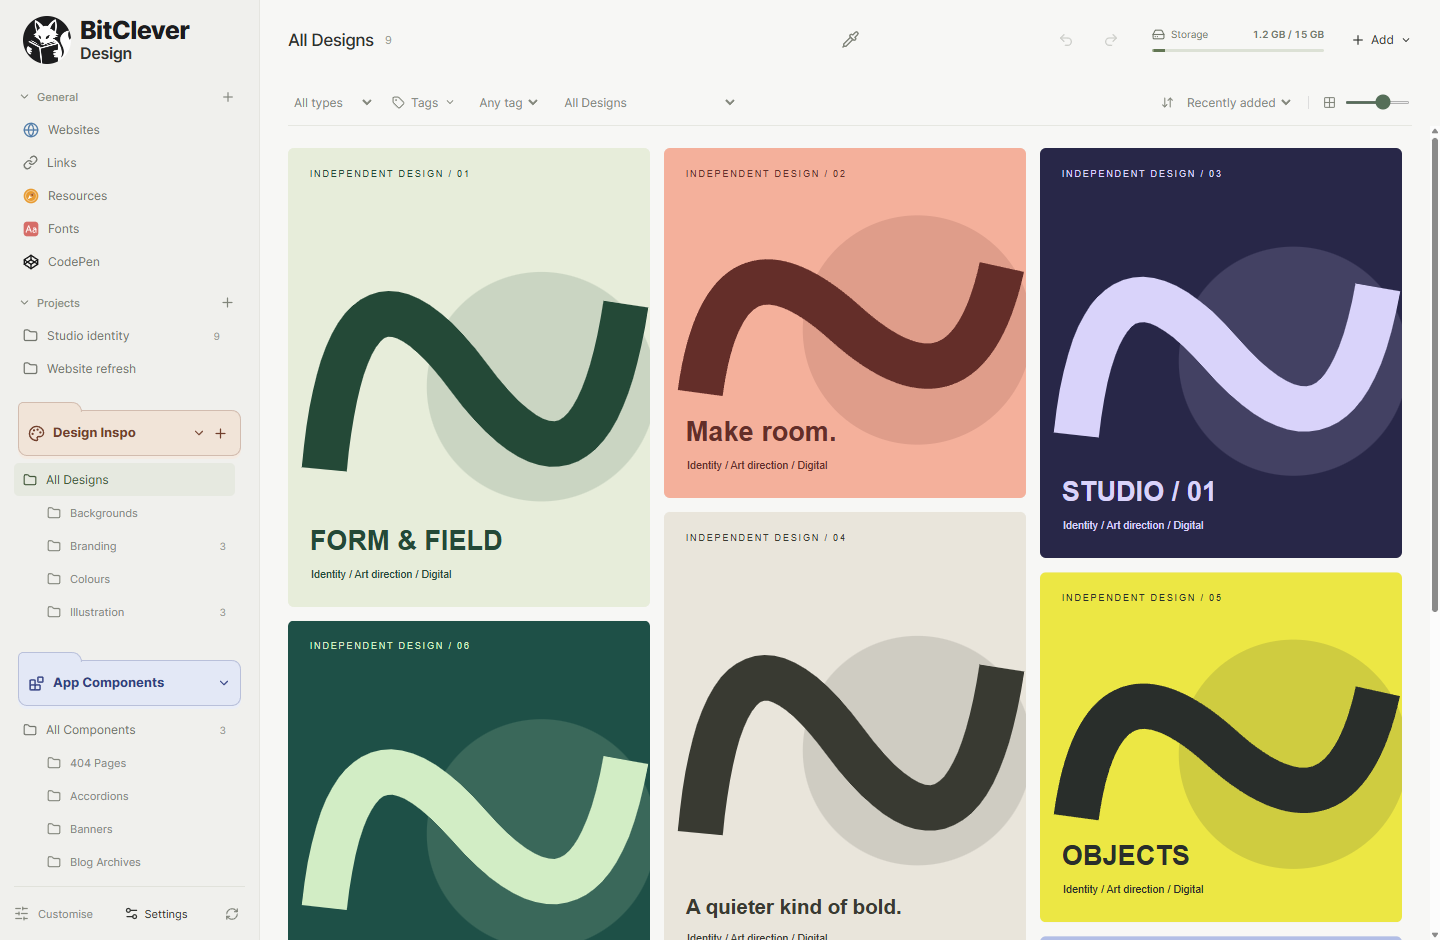
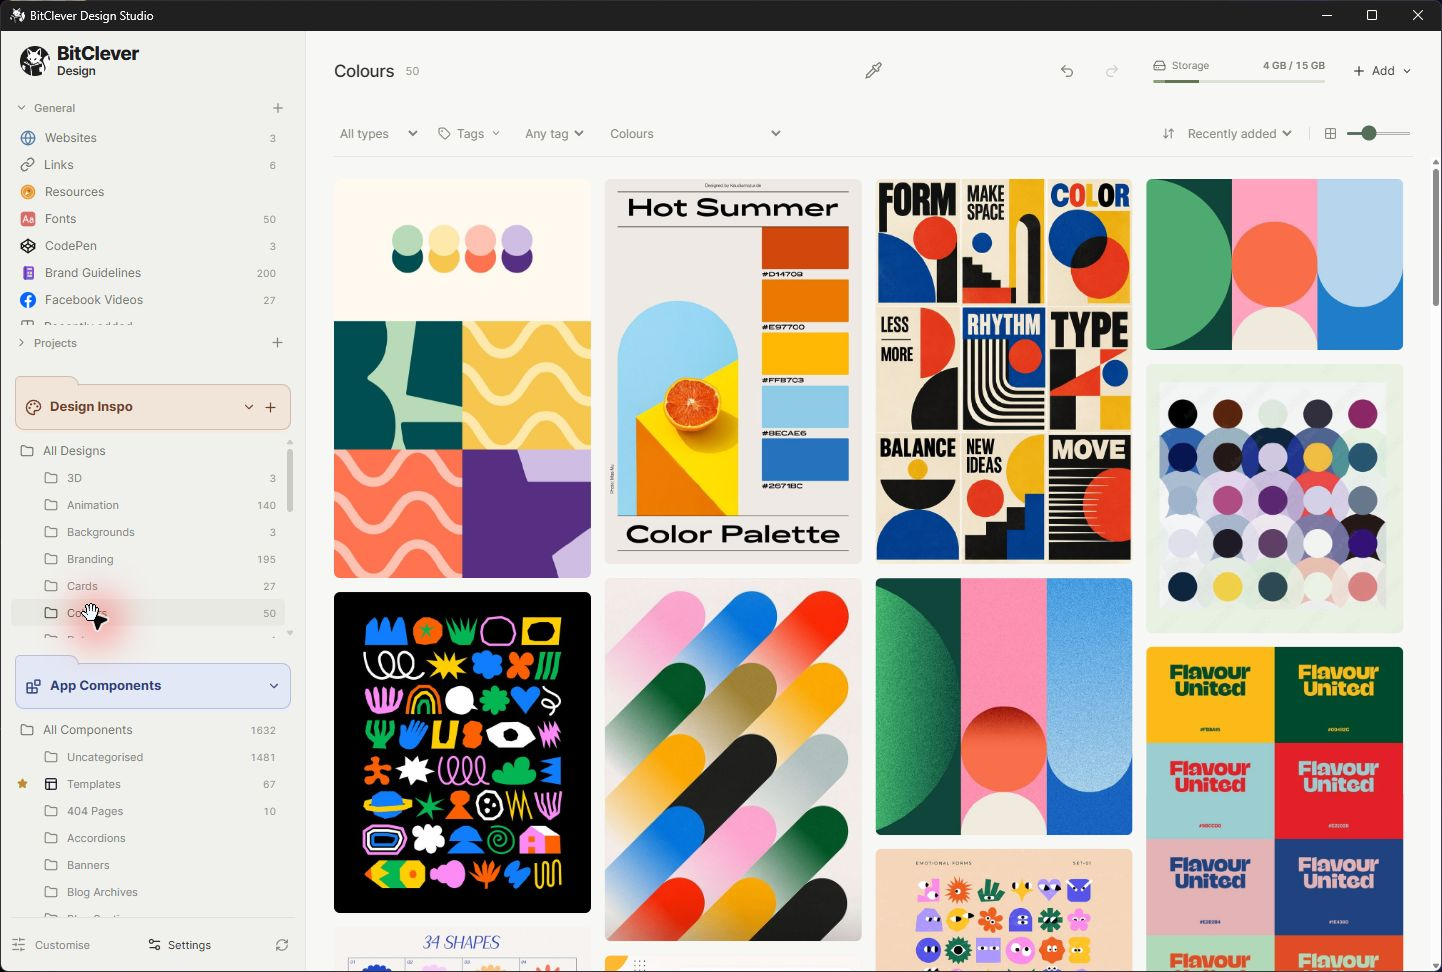
Prepare BitClever Design Studio 0.3.0 with real library screenshots

diff --git a/tests/workflow-tools.html b/tests/workflow-tools.html
@@ -22,15 +22,15 @@ const key=(key,extra={})=>{const e=new KeyboardEvent('keydown',{key,bubbles:true
 const checks=[];
 try{
  await until(()=>document.querySelector('.card'),'library');
- const navigation=[...document.querySelectorAll('nav[aria-label=Library] button span')].map(el=>el.textContent);assert(navigation[0]==='Links'&&!navigation.includes('All')&&!navigation.includes('Inbox'),'Sidebar should start with Links without All or Inbox');
- checks.push('Sidebar starts with Links; categories and projects remain available');
+ const navigation=[...document.querySelectorAll('nav[aria-label=Library] button span')].map(el=>el.textContent);assert(navigation[0]==='Websites'&&!navigation.includes('All')&&!navigation.includes('Inbox'),'Sidebar should start with Websites without All or Inbox');
+ checks.push('Sidebar starts with Websites; categories and projects remain available');
  const card=document.querySelector('[data-item-id="2"]');card.querySelector('.card-open').focus();key(' ');await until(()=>document.querySelector('.quick-preview img'),'Space preview');assert(!document.querySelector('.viewer'),'Opened full viewer');assert(document.querySelector('main').inert,'Background must be inert');
  key('ArrowLeft');await until(()=>document.querySelector('.quick-preview>header strong')?.textContent==='Assigned','Arrow browse');assert(!calls.some(c=>c.command==='open_external_url'),'Preview opened website');
  key(' ');await until(()=>!document.querySelector('.quick-preview'),'Space closes');assert(!document.querySelector('.viewer'),'Space opened viewer on close');
  document.querySelector('[data-item-id="2"] .card-open').focus();key(' ');await until(()=>document.querySelector('.quick-preview'),'reopen');key('Escape');await until(()=>!document.querySelector('.quick-preview'),'Esc closes');
  checks.push('Space peeks without full viewer; arrows browse links without launching them; Space/Esc restore library');
  nav('Fonts');await until(()=>document.querySelector('.fonts-table .link-name'),'Fonts table');document.querySelector('.fonts-table .link-name').focus();key(' ');await until(()=>document.querySelector('.quick-preview-link'),'Link preview');assert(!calls.some(c=>c.command==='open_external_url'),'Link preview launched website');key('Escape');await until(()=>!document.querySelector('.quick-preview'),'Close link preview');document.querySelector('nav[aria-label="Design Inspo"] button').click();await until(()=>document.querySelector('[data-item-id="2"]'),'Category overview');
- const search=document.querySelector('input[type=search]')||document.querySelector('input[placeholder="Search"]');search.focus();assert(!key(' ').defaultPrevented,'Space intercepted while typing');assert(!key('z',{ctrlKey:true}).defaultPrevented,'Text Undo intercepted');assert(!key('Z',{ctrlKey:true,shiftKey:true}).defaultPrevented,'Text Redo intercepted');assert(!key('y',{ctrlKey:true}).defaultPrevented,'Text Ctrl+Y intercepted');
+ key('k',{ctrlKey:true});await until(()=>!document.querySelector('.search-popup').hidden,'Search shortcut');const search=document.querySelector('input[type=search]')||document.querySelector('input[placeholder="Search"]');search.focus();assert(!key(' ').defaultPrevented,'Space intercepted while typing');assert(!key('z',{ctrlKey:true}).defaultPrevented,'Text Undo intercepted');assert(!key('Z',{ctrlKey:true,shiftKey:true}).defaultPrevented,'Text Redo intercepted');assert(!key('y',{ctrlKey:true}).defaultPrevented,'Text Ctrl+Y intercepted');search.dispatchEvent(new KeyboardEvent('keydown',{key:'Escape',bubbles:true}));await until(()=>document.querySelector('.search-popup').hidden,'Close search');
  document.querySelector('[data-item-id="2"] .card-select').click();await pause(30);
  const data=new DataTransfer();document.querySelector('[data-item-id="2"]').dispatchEvent(new DragEvent('dragstart',{bubbles:true,cancelable:true,dataTransfer:data}));
  const project=[...document.querySelectorAll('.project-row')].find(e=>e.textContent.includes('Website'));

diff --git a/README.md b/README.md
@@ -31,14 +31,14 @@ Drag sidebar destinations onto **Home** to create shortcuts. Resize and rearrang
 
 Customise sidebar layouts, section styles, icons and Home tiles. Collapse sections, reorder folders and add your own General shortcuts. Appearance changes and organisation actions support Undo/Redo; settings undo lasts for the current session.
 
-*Screenshots show the current development interface with original sample artwork, not a personal library. The latest installer may not include every feature shown here.*
+*Screenshots show the app with the owner’s design library. Reference artwork belongs to its respective creators and is not bundled with the app.*
 
 ## Get started
 
 **Windows 10/11 · 64-bit.** The installer includes media tools and installs WebView2 if needed.
 
 1. Download **Design-Setup.exe** from the [latest release](https://github.com/dottereldesign/design-viewer/releases/latest) and install it.
-2. Launch BitClever. In the current development app, click **Storage** in the header to create or open a self-contained library.
+2. Launch BitClever. Click **Storage** in the header to create or open a self-contained library.
 3. Choose a Design Inspo or App Components folder, then paste or drop your first references. Use **Websites** for saved sites and screenshots.
 
 Check **Settings → Get latest update** for new releases. Close the app before installing an update.
